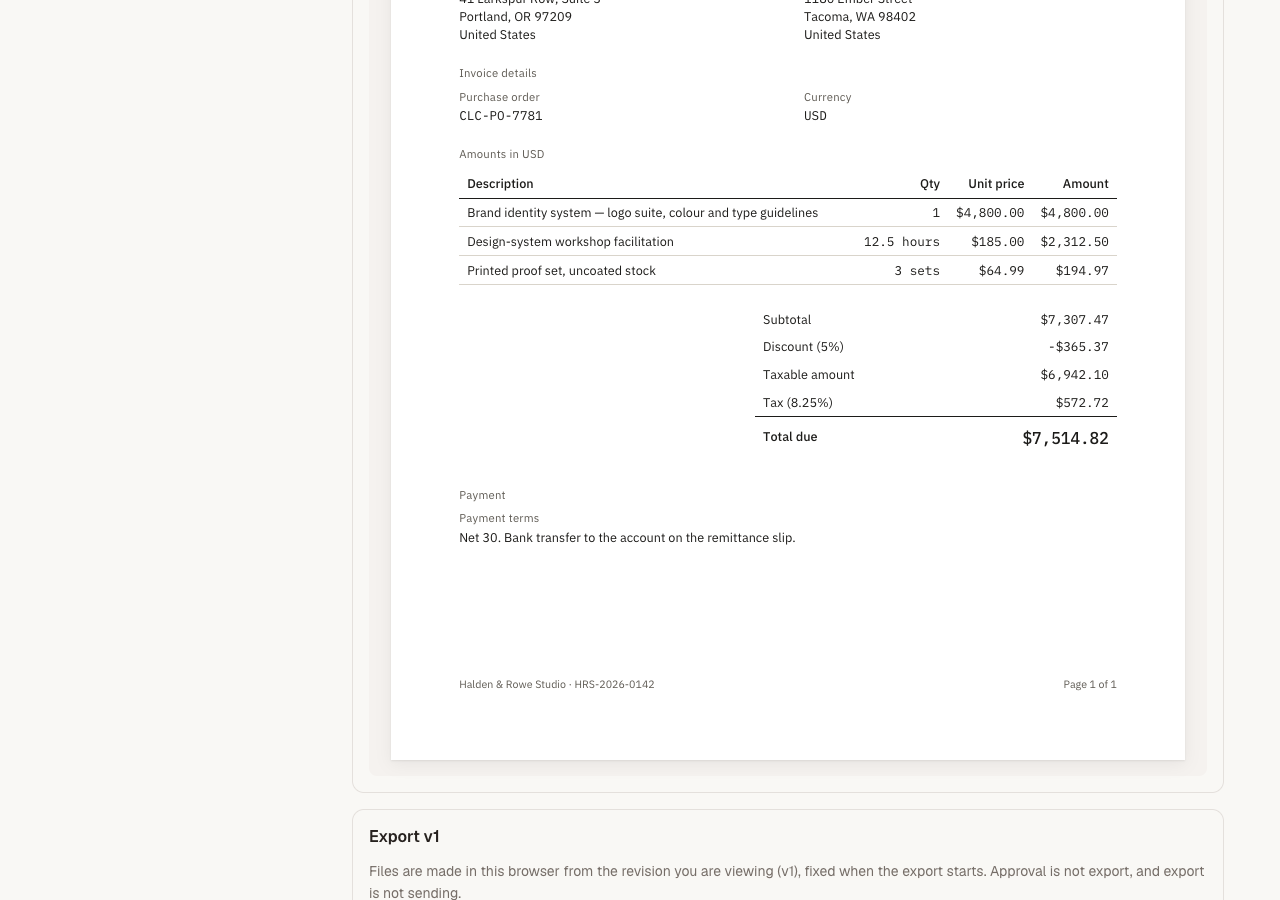
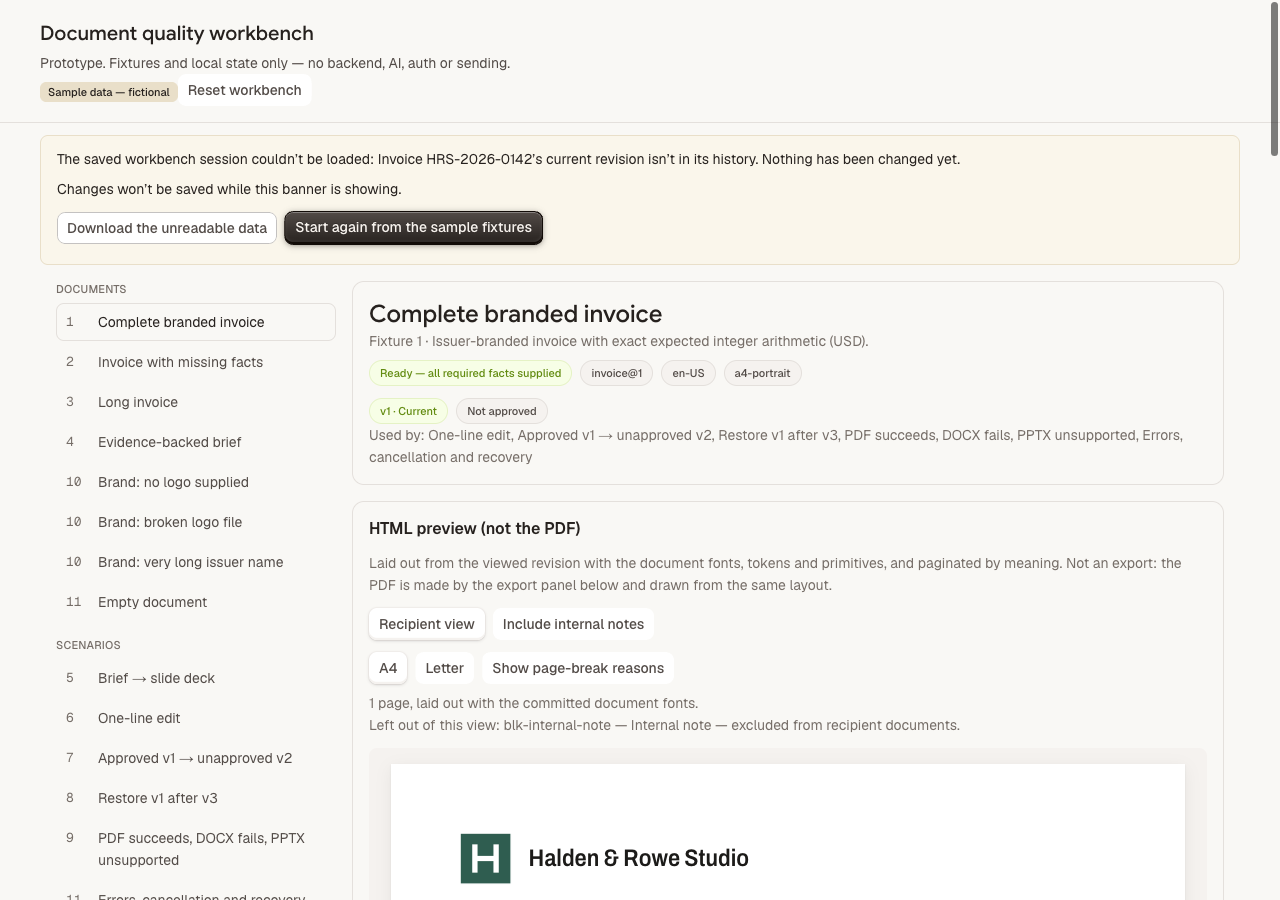
docs: Step 7 final report and progress
docs/reports/step-7.md: changed files against main, commands and results on the final code, screenshots, page-by-page inspection of all 30 sample page images, findings (deck '(continued)', a Pages row clip), and limitations stated plainly, including that Word and PowerPoint files were only checked in Apple Pages and Keynote.

diff --git a/docs/reports/step-7.md b/docs/reports/step-7.md
@@ -1,0 +1,96 @@
+# Step 7 report — final checks and report for the whole build
+
+- **Reported:** 2026-10-15 (UTC). Branch `feat/document-quality` on `Chaiidesign/craft`.
+- **Spec:** [../souvenir-document-generation-prd.md](../souvenir-document-generation-prd.md). **Decisions:** [../decisions.md](../decisions.md). **Feature README:** [../documents/README.md](../documents/README.md).
+- **Status:** built and checked; awaiting Instinct's review. Nothing in this build is approved for merge or release yet.
+
+## Scope
+
+PRD §12: run the actual checks, inspect actual pixels (phone and desktop previews, every page of every sample export, the opened Word and PowerPoint files where tooling permits), complete the README, and report changed files, commands and results, screenshots, sample export paths and limitations.
+
+## What the build delivers (Steps 1–6)
+
+| Step | Commit(s) | Delivered | Report |
+|---|---|---|---|
+| 1 | `13265b24` | Typed model, integer money, validation, the 11 fictional fixtures, workbench at `/document-verify` | [step-1.md](step-1.md) |
+| 2 | `87b61b53` | Font roles and tokens, type scales, layout primitives, invoice and brief templates | [step-2.md](step-2.md) |
+| 3 | `a6e5e0e5` | Font-metric layout, pagination by meaning, brief → deck | [step-3.md](step-3.md) |
+| 4 | `cf6c9884`, `0e031c76` | Immutable revisions, bounded edits, proposals, restore, mock approval markers, deck ancestry | [step-4.md](step-4.md) |
+| 5 | `8a05e154` | Real PDF, Word and PowerPoint exports of one frozen revision; generated-PDF preview | [step-5.md](step-5.md) |
+| 6 | `0cca21d6` | Browser-session storage and recovery, cancel, renderer vs viewer errors, error screens | [step-6.md](step-6.md) |
+
+## Changed files
+
+Against `main` (`7b8d94f3`): **171 files, +15,419 / −12.**
+- **New feature code:** `src/lib/documents/` (70 files: model, money, validation, fixtures, fonts, theme and tokens, layout engine, deck, revisions, session, export renderers, tests), `src/components/documents/` (10: previews, primitives, PDF viewer, browser export resources), `src/app/document-verify/` (13: the workbench, scenarios, tests), `scripts/documents/` (2: sample export and page-render scripts), `public/document-fixtures/halden-rowe-mark.png` (fictional logo).
+- **Existing files changed:** `src/proxy.ts` and `src/proxy.test.ts` (the demo route opens without login outside production — D-05), `next.config.ts` (client-only webpack rule for pptxgenjs; `turbopack` always declared — D-37, D-38), `package.json` / `package-lock.json` (`docx` 9.11.0, `pptxgenjs` 4.0.1, devDependency `sharp` 0.34.5). Nothing else outside the feature area changed; no API routes, auth guards, env values or remotes.
+- **Docs:** `docs/documents/` (README, samples and page images), `docs/reports/`, `docs/decisions.md`, `docs/progress.md`, `docs/workflow.md`, `docs/ai-build-playbook.md`, the PRD, and the root `CLAUDE.md`.
+
+## Commands and results (run 2026-10-15, final code)
+
+| Check | Command | Result |
+|---|---|---|
+| Typecheck | `npx tsc --noEmit -p .` | Clean |
+| Lint | `npx eslint src/lib/documents src/components/documents src/app/document-verify scripts/documents next.config.ts` | Clean |
+| Tests | `npx vitest run` | 1,421 passed, 2 skipped, **1 failed**: `src/lib/theme.test.tsx` ("theme.css is additive and in sync"), which failed before this build started and is unrelated |
+| Build | `npx next build --webpack` | Succeeds; only the existing Auth0 "Critical dependency" warnings |
+| Preview build | `VERCEL_ENV=preview npx next build --webpack` then `next start -p 4011` | Succeeds; `/document-verify` served under the production security policy; only the known Auth0 configuration errors in the server log |
+| Sample exports | `npx vite-node scripts/documents/export-samples.ts` | Regenerated from the final code and compared with the committed samples: PDFs have identical text and page counts; Word and PowerPoint files are identical part for part except creation timestamps and Word's random per-file font-obfuscation keys. The committed samples therefore are the final code's output and were kept. |
+
+## Screenshots
+
+Taken from the production preview build, in [step-7/](step-7/). No sideways scroll at any width (page `scrollWidth` equals the viewport at 390 and 320px).
+
+| File | Shows |
+|---|---|
+| `desktop-1-invoice.png` | 1280px: complete invoice, readiness, revision and approval labels, HTML preview |
+| `desktop-2-pdf-export.png` | Export panel with a finished PDF and the generated-PDF preview |
+| `desktop-3-empty-document.png` | Empty state: "Nothing to lay out yet." with the reason, and the issues list |
+| `desktop-4-scenario-11.png` | Fixture 11 run: all 16 checks pass |
+| `desktop-5-viewer-error.png` | Forced viewer failure: one alert, download intact, "Try the viewer again" / "Show the HTML preview" |
+| `desktop-6-malformed-session.png` | Malformed saved session banner |
+| `phone-390-1-malformed-session.png` | The banner at 390px |
+| `phone-390-2-invoice.png` | Top of the workbench at 390px |
+| `phone-390-3-html-preview.png` | HTML preview at 390px (the page scales to fit; zoom is in the PDF preview) |
+| `phone-390-4-pdf-export.png` | Finished PDF and its preview at 390px |
+| `phone-320-1-expired-export.png` | An export after reload ("file not kept after reload", Export again) at 320px |
+| `phone-320-2-fields.png` | The structured field list at 320px, readable without zoom |
+
+## Page-by-page export inspection
+
+Sample files are in [../documents/samples/](../documents/samples/); page images in `samples/pages/`; Apple renders in `samples/apple/`. All 30 page images were looked at one by one.
+
+| Sample | Our PDF | Word in Pages / PowerPoint in Keynote |
+|---|---|---|
+| Complete invoice (Halden & Rowe, USD) | 1 page: logo, letterhead, all fields, 3 rows, totals $7,514.82, terms, "Page 1 of 1" | 1 page in Helvetica; content and totals correct |
+| Draft invoice (Marrow & Finch, EUR) | 1 page: "DRAFT — INCOMPLETE", missing due date, billing address and tax shown as Missing, total "Incomplete — not a final amount" | 1 page; same states, Helvetica |
+| Long invoice (Saffron Loom, INR) | 4 pages: rows 1–10, 11–26, 27–40, 41–42 (all 42); header repeats on pages 2–4; the tall bespoke row intact; last 2 rows with the totals ₹31,69,979.72; terms follow; running header and "Page n of 4" | 5 pages: "Amounts in INR" alone on page 2, table from page 3 (Pages won't start a long table mid-page); **row 11 drawn one line short, hiding "11"** (the Word file has the full text); totals and terms together on page 5 |
+| Evidence brief (Brightwater) | 2 pages: summary with citations, goals, constraints, evidence, chart as vector shapes with axis line and data summary, pull quote, recommendations, callout, 4 sources | 3 pages; chart picture and editable data table both present; sources on page 3 |
+| Deck from the brief | 6 slides: title, summary + goals, constraints + evidence, chart, evidence + recommendations + callout, sources; "n / 6" footers | 6 slides in Helvetica; **chart has no bars** (Keynote drops pptxgenjs charts); headings wrap to two lines and crowd the text below; on slide 5 a wrapped list item runs into the callout |
+
+## Findings from this inspection
+
+1. **Deck "(continued)" (needs a decision).** The deck gives the evidence section's chart its own slide, so the section spans slides 3–5, and slides 4 and 5 repeat its heading **without** the approved "(continued)" (D-28). "(continued)" is only added when one slide's content overflows onto the next, not when a section is deliberately split into text, chart and text slides. This has been true since Step 3. Fixing it changes the deck's output, samples and tests, so it is recorded, not changed. Options: add "(continued)" to every repeated section heading after the first; or keep the chart slide's heading unmarked as a deliberate split and mark only the text continuation (slide 5).
+2. **Pages clips a row** that wraps exactly at the cell edge (long invoice row 11). The Word file is correct; recorded as a Pages limitation; Word unverified.
+3. **Scenario checkboxes render in uppercase** ("FORCE A VIEWER FAILURE (SCENARIO 11 ONLY)") because they use the workbench's label style, as scenario 9's did. The approved wording is unchanged; only its display case differs. Mentioned for awareness; no change made.
+
+## Limitations, stated plainly
+
+- **Word and PowerPoint files have never been opened in Microsoft Word or Microsoft PowerPoint**; neither is installed. They were checked only in **Apple Pages (Word files) and Apple Keynote (PowerPoint files), which both replace the document fonts with Helvetica.** Pages ignores the fonts embedded in the Word files; PowerPoint files can't embed fonts at all. Those renders confirm content, not typography, and their line and page breaks differ from the PDF.
+- Keynote shows no bars in the chart slide; Pages moves long tables to a fresh page and clipped one row. Whether Word or PowerPoint do the same is unverified.
+- Exported PDFs are not tagged for accessibility, and no such claim is made.
+- `ja-JP` and other non-Latin scripts are refused (no fallback font committed).
+- Cancel only takes effect while an export is loading fonts and images.
+- Two open tabs overwrite each other's saved session (last write wins).
+- Edits made while the malformed-session banner shows are not saved; the banner says so.
+- Demo storage is one browser's local storage, not production persistence.
+- The full list, with sources, is in the README's "Unsupported and unverified" and "Known limitations" sections.
+
+## New user-facing text in Step 7
+
+None. The README and reports are documentation; no workbench or document wording changed.
+
+## Decisions needed
+
+1. The deck "(continued)" finding above.
+2. Merge and release of `feat/document-quality`, after review of the draft pull request.

diff --git a/docs/progress.md b/docs/progress.md
@@ -1,16 +1,16 @@
 # Progress — document-generation build
 
-Updated 2026-10-14. Update this file and push before ending every session.
+Updated 2026-10-15. Update this file and push before ending every session.
 
 ## Where the work is
 
 - **Repo:** `Chaiidesign/craft` (a fork; never push upstream).
-- **Branch:** `feat/document-quality`, pushed to `origin`. Not merged; no pull request opened yet.
+- **Branch:** `feat/document-quality`, pushed to `origin`. Not merged. A draft pull request into the fork's `main` is open for review.
 - **Spec:** [souvenir-document-generation-prd.md](souvenir-document-generation-prd.md).
 - **Feature docs:** [documents/README.md](documents/README.md) (run commands, design rules, approved wording, limitations).
 - **Demo:** `npx next dev -p 4010`, then http://localhost:4010/document-verify.
 
-## What works (Steps 1–6, all committed and pushed)
+## What works (Steps 1–7, all committed and pushed)
 
 | Step | Commit | What it delivered |
 |---|---|---|
@@ -20,19 +20,19 @@ Updated 2026-10-14. Update this file and push before ending every session.
 | 4 | `cf6c9884`, `0e031c76` | Immutable revisions, bounded edits, proposals, restore, mock approval markers, deck ancestry |
 | 5 | `8a05e154` | Real PDF, Word and PowerPoint exports of one frozen revision; per-format status, retry, generated-PDF preview |
 | 6 | `0cca21d6` | Browser-session storage and malformed-session recovery, export cancel with late results discarded, renderer vs viewer errors, section error screens, duplicate-filename fixture |
+| 7 | see [reports/step-7.md](reports/step-7.md) | Full re-checks, phone and desktop screenshots, page-by-page export inspection, README completion, final report |
 
-Checks at Step 6: typecheck, lint and production build clean; 1,421 tests pass, 2 skipped. One known failure, `src/lib/theme.test.tsx`, predates this work and is unrelated.
+Checks at Step 7 (final code): typecheck, lint and production build clean; 1,421 tests pass, 2 skipped. One known failure, `src/lib/theme.test.tsx`, predates this work and is unrelated.
 
 ## Unfinished
 
-- **Word and PowerPoint in Microsoft's own apps are unverified.** Neither is installed here. Word files were checked in Pages and PowerPoint files in Keynote; the differences are recorded in the feature README.
-- **`docs/reports/step-1.md` … `step-6.md` don't exist yet.** The approved decisions for Steps 1–6 are in [decisions.md](decisions.md) (D-01 to D-44); the evidence from each step is in the feature README and commit messages.
-- **No draft pull request** has been opened for review.
-- **Known limitations:** listed in the feature README. They include: cancel only works while fonts and images load; two open tabs overwrite each other's saved session; the `ja-JP` locale is refused by the placeholder fonts; Pages moves long tables to the next page.
+- **Word and PowerPoint in Microsoft's own apps are unverified.** Neither is installed here. Word files were checked only in Apple Pages and PowerPoint files only in Apple Keynote, which both substitute Helvetica; differences are in the feature README's "Unsupported and unverified".
+- **Deck "(continued)" finding** from the Step 7 inspection: repeated headings across a deliberately split section don't say "(continued)". Awaiting a decision (see [reports/step-7.md](reports/step-7.md)).
+- **Known limitations:** listed in the feature README.
 
 ## Next step
 
-Backfill `docs/reports/step-1.md` … `step-6.md` from the feature README and the commit history. Then open a draft pull request on the fork for Instinct's review.
+Instinct reviews the draft pull request. Record the verdicts in [decisions.md](decisions.md), apply them (including the "(continued)" decision), commit and push; merge only after approval.
 
 ## Blockers
 
